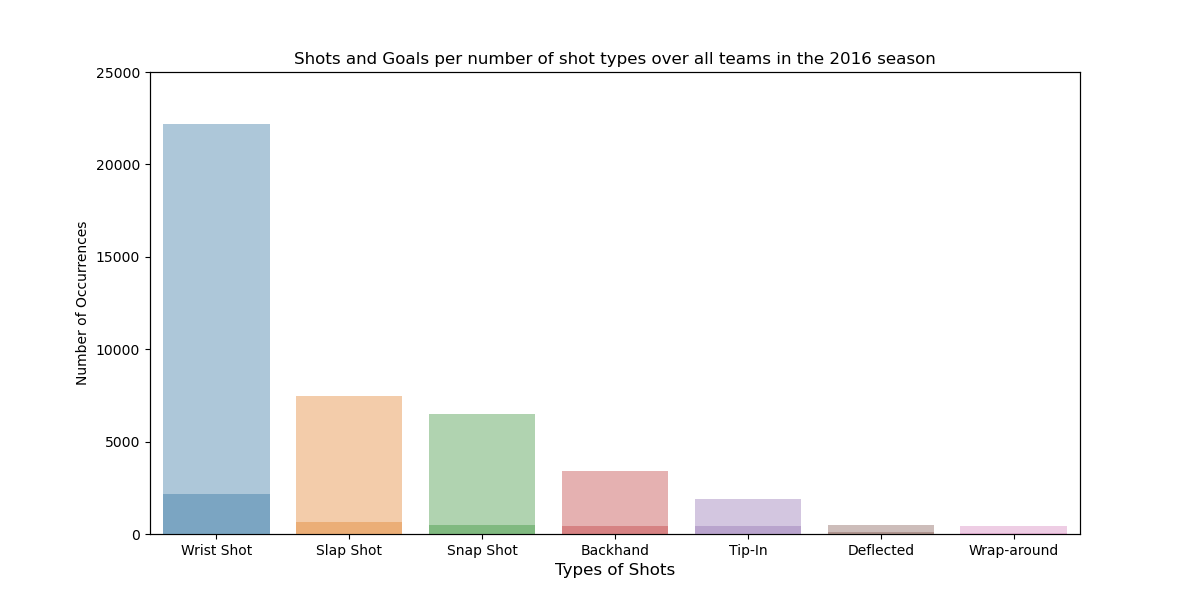
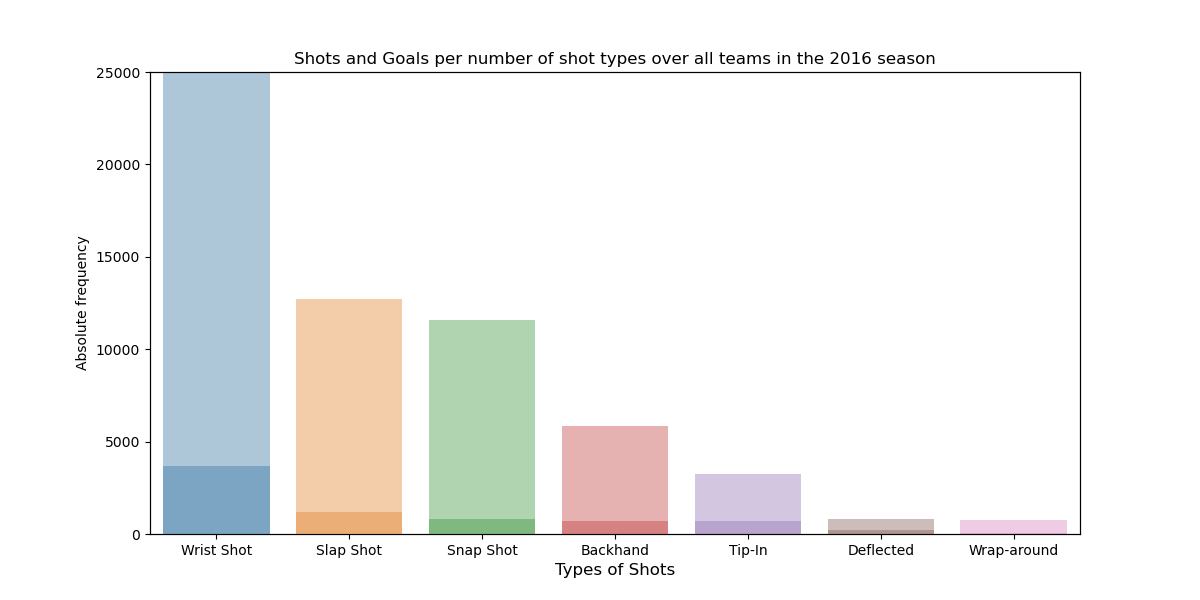
mise a jour du blog poru la question 5, rajout des images graphiques  png, et code pour la question 5

diff --git a/project/ift6758/data/Visualisation.py b/project/ift6758/data/Visualisation.py
@@ -131,7 +131,7 @@ plt.title('Chance of scoring a goal in function of shot distance: Season 2019')
 plt.ylabel('Percentage of scoring shots', fontsize=12)
 plt.xlabel('Shot distance', fontsize=12)
 plt.show()
-
+print(list_of_Percentage)
 ### Season 2020
 ### Generating Dataframe For the Season (2020)
 
@@ -153,9 +153,28 @@ list_of_Percentage = []
 for i in range(len(labels)):
     temp_df = events_new_coor_2020[events_new_coor_2020["bin_Shot_distance"]==labels[i]]
     list_of_Percentage.append(round(temp_df["event_type"].value_counts()[1] / (temp_df["event_type"].value_counts()[0] + temp_df["event_type"].value_counts()[1]) * 100, 2))
-
+print(list_of_Percentage)
 ### Plotting the BarPlot
 sns.barplot(labels, list_of_Percentage, alpha=0.4)
+plt.xticks(fontsize=9, rotation=45)
+plt.ylim(0, 25)
+plt.title('Chance of scoring a goal in function of shot distance: Season 2020')
+plt.ylabel('Percentage of scoring shots', fontsize=12)
+plt.xlabel('Shot distance', fontsize=12)
+plt.show()
+
+
+### Goal Percentage(# Goals/ # total de shots)
+### adding the column  to the dataframe :
+for events_new_coor_2020["bin_Shot_distance"], temp_df in events_new_coor_2020.groupby('shot_type'):
+    list_of_Goals_Percentage = []
+    for i in range(len(labels)):
+        if temp_df == events_new_coor_2020[events_new_coor_2020["bin_Shot_distance"]==labels[i]]:
+            list_of_Goals_Percentage.append(round(temp_df["event_type"].value_counts()[1] / (temp_df["event_type"].value_counts()[0] + temp_df["event_type"].value_counts()[1]) * 100, 2))
+
+
+### Plotting the BarPlot
+sns.barplot(events_new_coor_2020['shot_type'], list_of_Goals_Percentage, alpha=0.4)
 plt.xticks(fontsize=9, rotation=45)
 plt.ylim(0, 25)
 plt.title('Chance of scoring a goal in function of shot distance: Season 2020')

diff --git a/blog/_posts/2021-09-28-milestone-1.md b/blog/_posts/2021-09-28-milestone-1.md
@@ -78,10 +78,46 @@ An interesting feature that could be added would be to categorize the type of GO
 
 
 ### Question 5
-The most dangerous type of shot is the deflected type with 24.066% followed by the Tip-In.
+We have chosen the season 2016. The most dangerous type of shot in the 2016 Season is the
+deflected type with a Percentage of scoring shots of 19.8 % followed by the Tip-In with
+17.9 %.
 
-![img.png](/public/img.png)
+![img_2.png](/public/img_2.png)
 
-The most common type of shot is the wrist shot with 22 192 shots.
+The most common type of shot in the season 2016 is the Wrist Shot with 38 056 shots
+followed by the Slap Shot with 12 691 shots.
 
 ![img_1.png](/public/img_1.png)
+
+The relationship between the distance a shot was taken and the chance it was a goal
+has been produce in 3 figures, one figure for 2018, one figure for 2019,
+and one figure for to 2020.
+The figure below describes the chance of scoring a goal in function of shot
+distance for the season 2018.  The highest percentage is 23.76 for the shortest shot distance
+interval (1 feet to 5.8 feets), which is logical because it is very close to the net.
+Then the percentage slowly decreases the more distant we are from the net, and at 60 feets,
+it reaches a percentage of 2.1 and then the percentage stays between 2 and 5 until the distance
+of 98 feets.
+![img_3.png](/public/img_3.png)
+
+For the 2019 season, the figure below describes the chance of scoring a goal in function
+of shot distance. The highest percentage is 24.49 for the shortest shot distance
+interval (1 feet to 5.8 feets), which is logical because it is very close to the net.
+Then at 60 feets, it reaches a percentage of 2.48, and then the percentage stays between 2 and 6 until the distance
+of 98 feets.
+
+![img_5.png](/public/img_5.png)
+
+Then for the 2020 season, the figure below describes the chance of scoring a goal in
+function of shot distance. The highest percentage is 23.16 for the shortest shot distance
+interval (1 feet to 5.8 feets), which is the closest distance to the net.
+Then at 45 feets, it reaches 2.93 of percentage then oscillates beteween 2 and 8 percent until 98 feets.
+
+![img_6.png](/public/img_6.png)
+
+What is interesting, is that it has not been much much change on teh relationship of the three seasons 2018, 2019, and 2020.
+
+In all the seasons, it begins with a peak at the shortest distance(very close to the net), then in all the seasons, it reaches one of the
+lowest percentage at mid-distance between 45 and 60 feets, then the percentage stays stable with small oscillations until 98 feets.
+All our results are consistent with the common rules of Hockey and the common laws of physics that could explain those percentages
+variations.
